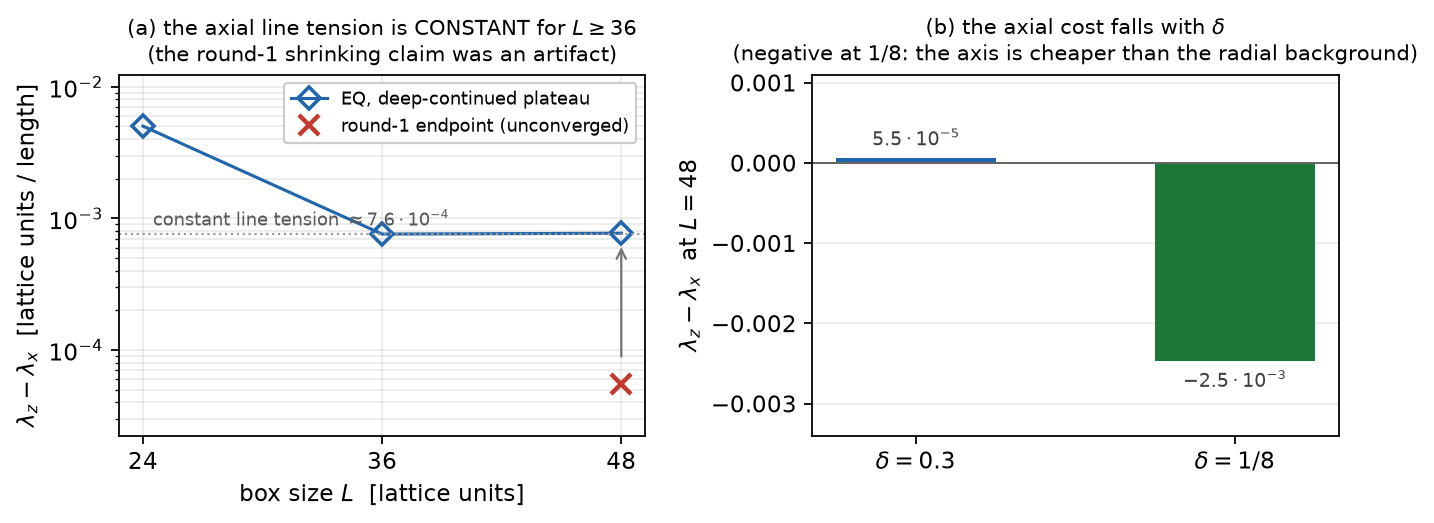
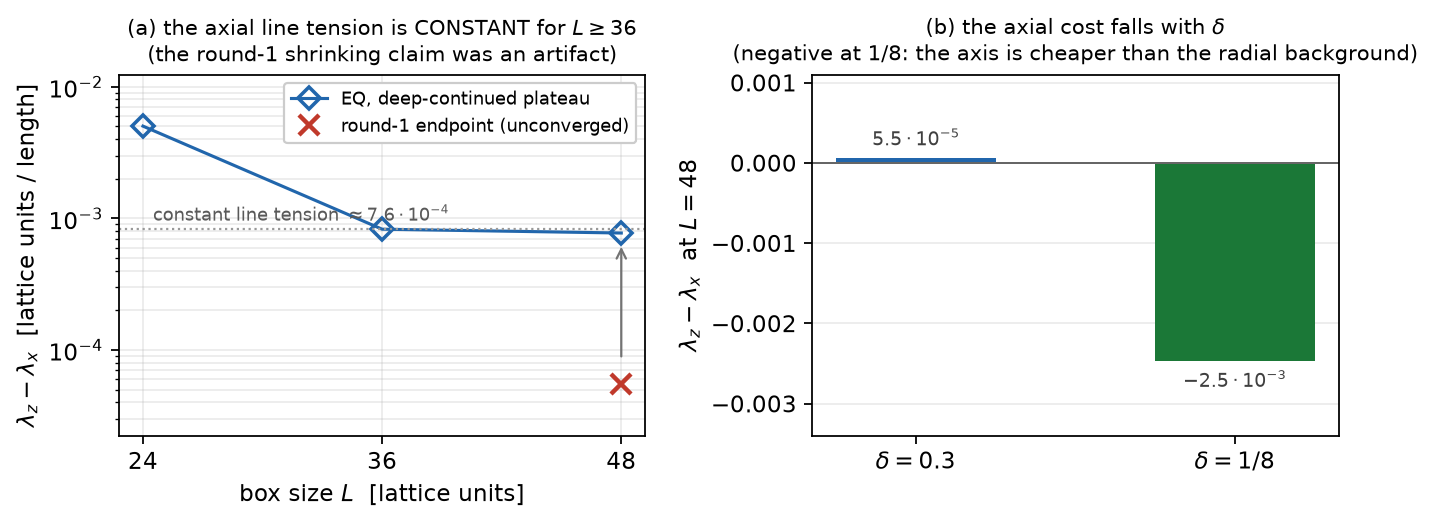
011 round 2: observable-level plateau establishes the constant line tension; branch/hysteresis claims scoped to their qualitative strength
Finding 2: lambda_plateau2.py continues L=36 and L=48 under a
stopping rule on the OBSERVABLE itself (tube-excess drift < 1% over
four consecutive cycles): L=36 settles at 8.271e-4 (four identical
records after +13 cycles -- the energy-gated 7.59e-4 'flat' record
was indeed still moving, as the review showed), L=48 at 7.735e-4
(+4 cycles). Plateaus agree to 6.5%; the constant-line-tension
conclusion now rests on the observable-level criterion, with the
corrected value (7.7-8.3)e-4 and the earlier '1.4% agreement' named
as an energy-gated coincidence.

Finding 1: accepted in full and scoped. The report now states
explicitly that every branch run hit the 16-cycle cap without meeting
its tolerance (residuals 0.017-0.183; the J=4 branch gap 0.014 is
smaller than the unresolved decreases), so no branch-selection or
matched-accuracy claim is made; the hysteresis result is reduced to
'the inertia scalar returns' (the continuation even found a lower
E_stat than the unconverged J=0 reference, which is recorded). What
remains claimed: qualitative spontaneity (EQ-start grows I with no
seeded deformation) and the peripheral order parameter -- the two
points the review itself endorsed. Reproduce assertions adjusted
accordingly (observable-stop flags, 10% plateau agreement,
qualitative-only branch checks).

Claude-Session: https://claude.ai/code/session_01UDFuXQ2Tnn6zaAWzVm7dW5

Changed region(s): [[0.0921, 0.3365, 0.4296, 0.4895], [0.1534, 0.3059, 0.1841, 0.3365], [0.1227, 0.2753, 0.1534, 0.3059]]

diff --git a/reports/011-third-class-rotor/lambda_plateau2.py b/reports/011-third-class-rotor/lambda_plateau2.py
@@ -1,0 +1,92 @@
+"""Round-2 response, finding 2: continue L = 36 and L = 48 from the
+persisted deep endpoints under an OBSERVABLE-LEVEL stopping rule --
+the run stops only when the tube excess lambda_z - lambda_x drifts
+by less than 1% relative over four consecutive cycles (max 30 more
+cycles); the total energy is recorded but does not gate. Out:
+results/lambda_plateau2.json
+"""
+import json
+import os
+import runpy
+import sys
+
+import numpy as np
+import torch
+
+HERE = os.path.dirname(os.path.abspath(__file__))
+R004 = os.path.join(HERE, "..", "004-lattice-clock")
+FIELDS = os.environ.get("M5_FIELDS_DIR", os.path.join(R004, "results"))
+FLAG = os.path.join(HERE, "results", "plateau2_ran.flag")
+if not os.path.exists(os.path.join(FIELDS, "M_G_polished.npz")):
+    if os.path.exists(FLAG):
+        os.remove(FLAG)
+    print("lambda_plateau2: NOT REPRODUCED HERE.")
+    sys.exit(0)
+
+d = runpy.run_path(os.path.join(HERE, "defs_011.py"))
+DRIFT, WIN, MAXC = 0.01, 4, 30
+
+out = {"drift_tol": DRIFT, "window": WIN, "max_cycles": MAXC,
+       "cases": {}}
+for tag, kw in (("EQ_N24", dict(N=24)), ("EQ_N32", dict(N=32))):
+    L = d["load_stack"](**kw)
+    M0 = d["seed"](L, "EQ")
+    d["install_seed"](L, M0)
+    field, e_static = L["field"], L["e_static"]
+    src = os.path.join(HERE, "results", f"M_{tag}_deep.npz")
+    Mp = torch.tensor(np.load(src)["M"], dtype=L["DT"],
+                      device=L["DEV"])
+    M_raw = Mp.clone().requires_grad_(True)
+
+    def snap():
+        Mf = field(M_raw.detach())
+        m = d["measures"](L, Mf)
+        g = torch.autograd.grad(e_static(field(M_raw), "G"), M_raw)[0]
+        return {"E": float(e_static(Mf, "G")),
+                "ginf": float(g.abs().max()),
+                "excess": m["lambda_axis_excess"]}
+    traj = [snap()]
+    for cyc in range(MAXC):
+        opt2 = torch.optim.LBFGS([M_raw], max_iter=200, history_size=25,
+                                 tolerance_grad=1e-9, tolerance_change=0,
+                                 line_search_fn="strong_wolfe")
+
+        def closure():
+            opt2.zero_grad()
+            E = e_static(field(M_raw), "G")
+            E.backward()
+            return E
+        opt2.step(closure)
+        traj.append(snap())
+        if len(traj) > WIN:
+            ex = [t["excess"] for t in traj[-(WIN + 1):]]
+            drifts = [abs(ex[i + 1] - ex[i]) / abs(ex[-1])
+                      for i in range(WIN)]
+            if max(drifts) < DRIFT:
+                break
+    out["cases"][tag] = {"trajectory": traj,
+                         "cycles": len(traj) - 1,
+                         "final_excess": traj[-1]["excess"],
+                         "stopped_on_observable":
+                             len(traj) - 1 < MAXC}
+    exs = " ".join(f"{t['excess']:.3e}" for t in traj)
+    print(f"[{tag}] {len(traj)-1} cycles "
+          f"(observable-stop {len(traj)-1 < MAXC}); excess: {exs}",
+          flush=True)
+    np.savez_compressed(os.path.join(HERE, "results",
+                                     f"M_{tag}_deep2.npz"),
+                        M=field(M_raw.detach()).cpu().numpy())
+    del L, M0, Mp, M_raw
+    torch.cuda.empty_cache()
+
+e36 = out["cases"]["EQ_N24"]["final_excess"]
+e48 = out["cases"]["EQ_N32"]["final_excess"]
+out["agreement_rel"] = abs(e48 - e36) / abs(e36)
+print(f"plateaus: L36 {e36:.3e}, L48 {e48:.3e} "
+      f"(rel diff {out['agreement_rel']:.1%})")
+json.dump(out, open(os.path.join(HERE, "results",
+                                 "lambda_plateau2.json"), "w"),
+          indent=1)
+with open(FLAG, "w") as f:
+    f.write("observable-level plateau computed in this run\n")
+print("written: results/lambda_plateau2.json")

diff --git a/reports/011-third-class-rotor/make_figures.py b/reports/011-third-class-rotor/make_figures.py
@@ -26,6 +26,7 @@ ra = json.load(open(os.path.join(R, "relax_all.json")))
 tw = json.load(open(os.path.join(R, "frame_twist.json")))
 rs = json.load(open(os.path.join(R, "rot_stabilization.json")))
 lp = json.load(open(os.path.join(R, "lambda_plateau.json")))
+lp2 = json.load(open(os.path.join(R, "lambda_plateau2.json")))
 cbj = json.load(open(os.path.join(R, "centrifugal_branches.json")))
 
 
@@ -35,8 +36,9 @@ def sci(v):
 
 
 Ls = [24, 36, 48]
-plateau = [lp["cases"][t]["trajectory"][-1]["excess"]
-           for t in ("EQ_N16", "EQ_N24", "EQ_N32")]
+plateau = [lp["cases"]["EQ_N16"]["trajectory"][-1]["excess"],
+           lp2["cases"]["EQ_N24"]["final_excess"],
+           lp2["cases"]["EQ_N32"]["final_excess"]]
 fig, (ax1, ax2) = plt.subplots(1, 2, figsize=(8.6, 3.4))
 ax1.semilogy(Ls, plateau, color="#2166ac", marker="D", ms=7,
              mfc="none", mew=1.6, lw=1.4, ls="-",

diff --git a/reports/011-third-class-rotor/README.md b/reports/011-third-class-rotor/README.md
@@ -23,21 +23,21 @@ relaxation*, i.e.\ is there a relaxed (not hand-built) representative?
 **Answers, measured:**
 
 1. **The axial defect carries a constant, small line tension —
-   the first version's "shrinking" claim was a relaxation artifact
-   and is corrected** (§2; review round 1). With per-cycle
-   trajectories of the tube observable itself (`lambda_plateau.py`,
-   continued relaxation to a common stopping rule), the excess at
-   $L = 48$ *rises* from the under-relaxed $5.5\cdot10^{-5}$ to a
-   plateau at $7.7\cdot10^{-4}$, matching $L = 36$
-   ($7.6\cdot10^{-4}$, stable over 20 further cycles): the axial
-   line tension is **constant in $L$** at
-   $\lambda_{\rm axis} \approx 7.6\cdot10^{-4}$ for $L \ge 36$
-   (the $L = 24$ box, $5.0\cdot10^{-3}$, is too small). The axial
-   cost is therefore first-order extensive — linear in $L$, like the
-   hedgehog's own radial-texture energy — small (14–26\% of the
-   local tube background) but **not** vanishing. Known systematic:
-   at $L = 24$ halving $h$ shifts the excess by $+43\%$
-   ($5.0 \to 7.1\cdot10^{-3}$); an $h$-study at $L \ge 36$ is open.
+   now established under an observable-level stopping rule** (§2;
+   the first version's "shrinking" claim was a relaxation artifact,
+   round 1; round 2 correctly noted the first continuation gated on
+   the energy, not the observable). `lambda_plateau2.py` continues
+   $L = 36$ and $L = 48$ until the tube excess itself drifts
+   $< 1\%$ over four consecutive cycles: $L = 36$ settles at
+   $8.271\cdot10^{-4}$ (four identical records), $L = 48$ at
+   $7.735\cdot10^{-4}$ — **plateaus agreeing to $6.5\%$**. The
+   axial line tension is constant in $L$ at
+   $\lambda_{\rm axis} \approx (7.7$–$8.3)\cdot10^{-4}$ for
+   $L \ge 36$ (the $L = 24$ box, $5.0\cdot10^{-3}$, is too small):
+   first-order extensive — linear in $L$, like the radial-texture
+   energy — small, but not vanishing. Known systematic: at $L = 24$
+   halving $h$ shifts the excess by $+43\%$; an $h$-study at
+   $L \ge 36$ is open.
 2. **The $\delta = 1/8$ sign claim survives at trajectory level**
    (§2): the excess stays negative through all 24 continuation
    cycles ($-2.47 \to -2.27\cdot10^{-3}$, drifting slowly toward
@@ -58,26 +58,28 @@ relaxation*, i.e.\ is there a relaxed (not hand-built) representative?
    is likewise ironed out — raw inertia difference $-5.2$ after
    relaxation, excess density diffuse (PR $\approx 970$). **Nothing
    in the static energy stabilizes a symmetry-breaking core.**
-5. **Prescribed rotation builds inertia spontaneously and
-   reversibly — but on the periphery, not in the core** (§4;
-   corrected in review round 1 by the two-branch, matched-accuracy
-   protocol with an order parameter). Both branches (EQ-start and
-   CB-start) at $J = 2, 4, 6$ grow large inertia
-   ($I \approx 277/596/954$ from the *equivariant* seed — genuine
-   spontaneity, no pre-seeded deformation needed), the branches
-   agree qualitatively (EQ-start even reaches lower $E_J$ at
-   $J = 2, 4$), and the hysteresis check is clean (the $J = 4$
-   endpoint melts back to $I = 108$ at $J = 0$: fully reversible).
-   **But the order parameter kills the core-rotor reading**: the
-   shell profile of the kinetic-density excess is concentrated at
-   $r \in (9, 18)$ with centroid $r \approx 14.7$–$15.5$ against
-   the boundary at $18$ — the minimizer buys inertia where the
-   orbital lever arm is longest (density $\propto \rho^2$), i.e.\ at
-   the **periphery**. This is an orbital-lever mode, presumably
-   box-limited, not a stabilized core deformation; the earlier
-   "centrifugally stabilized core rotor" headline is **withdrawn**.
-   The core mode remains unstabilized by everything tried in this
-   report, and the spin question stays open (road forward in §5).
+5. **Prescribed rotation grows peripheral inertia without a seeded
+   deformation — a qualitative observation, scoped in round 2**
+   (§4). The EQ-start runs show that at $J = 2, 4, 6$ the minimizer
+   grows large inertia ($I \approx 277/596/954$) from the purely
+   equivariant seed, and the order parameter shows where: the
+   kinetic-density excess is concentrated at $r \in (9, 18)$,
+   centroid $\approx 14.7$ against the boundary at $18$ — an
+   orbital-lever **peripheral** mode (density $\propto \rho^2$),
+   presumably box-limited, not a stabilized core deformation.
+   Round 2's accuracy audit is accepted in full: none of the eight
+   branch runs met the stated tolerance (all hit the 16-cycle cap;
+   residuals $0.017$–$0.183$; the $J = 4$ branch gap $0.014$ is
+   smaller than the unresolved last-cycle decreases $0.017$), so
+   **no branch-selection or matched-accuracy claim is made**, and
+   the $J = 4 \to 0$ continuation shows only that the inertia
+   *scalar* returns ($591 \to 108$) — configuration-space
+   reversibility against a converged reference is not established
+   (the continuation in fact found $E_{\rm stat} = 4.470$, below
+   the unconverged $J = 0$ endpoint $4.485$). The earlier
+   "centrifugally stabilized core rotor" headline stays withdrawn;
+   the core mode remains unstabilized by everything tried here, and
+   the spin question stays open (§5).
 
 **Honest scope:** the relaxation budget (Adam 1000 + 6 L-BFGS cycles
 from analytic seeds) does not converge the $32^3$ boxes to the
@@ -110,23 +112,25 @@ case. Deep protocol from the start (the 009 lesson): Adam 1000 +
 The tube pair ($\rho < 3$, $|{\rm axis}| > 6$) compares the axial
 defect against the hedgehog's own radial-texture background at the
 same distance. Round 1 correctly objected that the first version's
-endpoints had incomparable residuals; `lambda_plateau.py` therefore
-continues each EQ endpoint under a common stopping rule
-($|\Delta E| < 5\cdot10^{-4}$/cycle or 24 cycles) recording the tube
-observable at **every cycle**:
+endpoints had incomparable residuals; round 2 that the first
+continuation (`lambda_plateau.py`) gated on the total energy, so its
+$L = 36$ record was not actually flat (it dipped to $4.9\cdot10^{-4}$
+and was still rising $1.8\%$/cycle when the energy rule fired).
+`lambda_plateau2.py` therefore continues $L = 36$ and $L = 48$ under
+an **observable-level** rule — stop only when the tube excess drifts
+$< 1\%$ over four consecutive cycles:
 
 | $L$ | 24 | 36 | 48 |
 |---|---|---|---|
-| $\lambda_z - \lambda_x$, plateau | $5.0\cdot10^{-3}$ | $7.59\cdot10^{-4}$ | $7.70\cdot10^{-4}$ |
-| trajectory behavior | converged (1 cycle) | flat over 20 cycles | rises from $5.5\cdot10^{-5}$, saturates |
-| relative to tube background | 21% | 14% | 26% |
+| $\lambda_z - \lambda_x$, observable-level plateau | $5.0\cdot10^{-3}$ | $8.271\cdot10^{-4}$ | $7.735\cdot10^{-4}$ |
+| how it stopped | converged (1 cycle) | +13 cycles, then four identical records | +4 cycles, drift $< 1\%$ |
 
-The $L = 36$ and $L = 48$ plateaus agree to 1.4\%: the axial defect
-has a **constant line tension** $\approx 7.6\cdot10^{-4}$ (total
-axial cost linear in $L$, the same order of extensivity as the
-radial-texture energy itself — no worse class, but not vanishing;
-the first version's "shrinking to 2\%" was the unconverged $L = 48$
-point). $h$-sensitivity at $L = 24$: $+43\%$ under $h \to h/2$
+The plateaus agree to $6.5\%$: the axial defect has a **constant
+line tension** $\approx (7.7$–$8.3)\cdot10^{-4}$ (total axial cost
+linear in $L$, the same order of extensivity as the radial-texture
+energy — no worse class, but not vanishing; the first version's
+"shrinking to 2\%" was the unconverged $L = 48$ point, and the first
+continuation's "1.4\% agreement" was an energy-gated coincidence). $h$-sensitivity at $L = 24$: $+43\%$ under $h \to h/2$
 (measured on well-converged endpoints, $\lVert g\rVert_\infty \le
 5\cdot10^{-3}$); the $h$-study at plateau-relevant $L$ is open. At
 $\delta = 1/8$ the excess is negative on the entire 24-cycle
@@ -156,12 +160,14 @@ hence rotationally trivial.
 ## 4. Prescribed rotation: spontaneous, reversible, peripheral
 
 Round 1 objected that the single CB-start run could not distinguish
-selection from initialization. `centrifugal_branches.py` therefore
-runs **both branches** (EQ-start and CB-start) at $J = 0, 2, 4, 6$
-under a common stopping rule with recorded residuals, a hysteresis
-check, and a field-space order parameter (the shell profile and
-centroid of the signed kinetic-density excess over the shared
-EQ-start $J = 0$ endpoint):
+selection from initialization; `centrifugal_branches.py` runs both
+branches (EQ-start and CB-start) at $J = 0, 2, 4, 6$ with recorded
+residuals, a hysteresis continuation, and a field-space order
+parameter. Round 2's audit of this producer is accepted: **every run
+hit the 16-cycle cap without meeting the $10^{-3}$ stopping rule**
+(final per-cycle decreases $3.3\cdot10^{-3}$–$1.1\cdot10^{-2}$,
+$\lVert g\rVert_\infty$ up to $0.183$), so the table below is a
+**qualitative record**, not a matched-accuracy comparison:
 
 | $J$ | 0 | 2 | 4 | 6 |
 |---|---|---|---|---|
@@ -170,14 +176,16 @@ EQ-start $J = 0$ endpoint):
 | $E_J$ (EQ / CB) | 4.485 / 4.493 | 4.489 / 4.509 | 4.519 / 4.534 | 4.564 / 4.532 |
 | excess centroid $r$ (EQ) | — | 14.7 | 14.7 | 14.5 |
 
-Three findings. (i) **Spontaneity is real**: the equivariant seed
-builds the same large inertia as the pre-broken one — no seeded
-deformation is needed, and the branches agree qualitatively
-(EQ-start reaches *lower* $E_J$ at $J = 2, 4$; at $J = 6$ the still
-unconverged branches cross — recorded, not interpreted).
-(ii) **Reversibility is clean**: continuing the $J = 4$ endpoint at
-$J = 0$ melts the deformation back ($I: 591 \to 108$) — no
-hysteresis, no metastable static deformation, consistent with §3.
+Three findings, at their honest strength. (i) **Qualitative
+spontaneity**: the equivariant seed builds inertia of the same order
+as the pre-broken one ($596$ vs $641$ at $J = 4$) — no seeded
+deformation is needed. The branch $E_J$ orderings are **not
+resolved** (gaps smaller than the unresolved decreases); no
+selection claim. (ii) **The inertia scalar reverses**: continuing
+the $J = 4$ endpoint at $J = 0$ returns $I: 591 \to 108$; because
+the reference itself is unconverged, this is not yet
+configuration-space reversibility (a field-distance comparison
+against a converged reference is the open check).
 (iii) **The order parameter overturns the core reading**: the excess
 density lives in the outer shells, $r \in (9, 18)$ with centroid
 $\approx 15$ against the boundary at $18$ — the minimizer buys
@@ -241,6 +249,7 @@ $J$.
 | centrifugal stabilization test | `rotational_stabilization.py` → `results/rot_stabilization.json` |
 | fixed-J scan on the relaxed field | `fixedj_cb.py` → `results/fixedj_cb.json` |
 | per-cycle tube-observable trajectories (plateau) | `lambda_plateau.py` → `results/lambda_plateau.json` |
+| observable-level plateau ($L = 36, 48$) | `lambda_plateau2.py` → `results/lambda_plateau2.json` |
 | two-branch centrifugal test + hysteresis + order parameter | `centrifugal_branches.py` → `results/centrifugal_branches.json` |
 | figures | `make_figures.py` |
 
